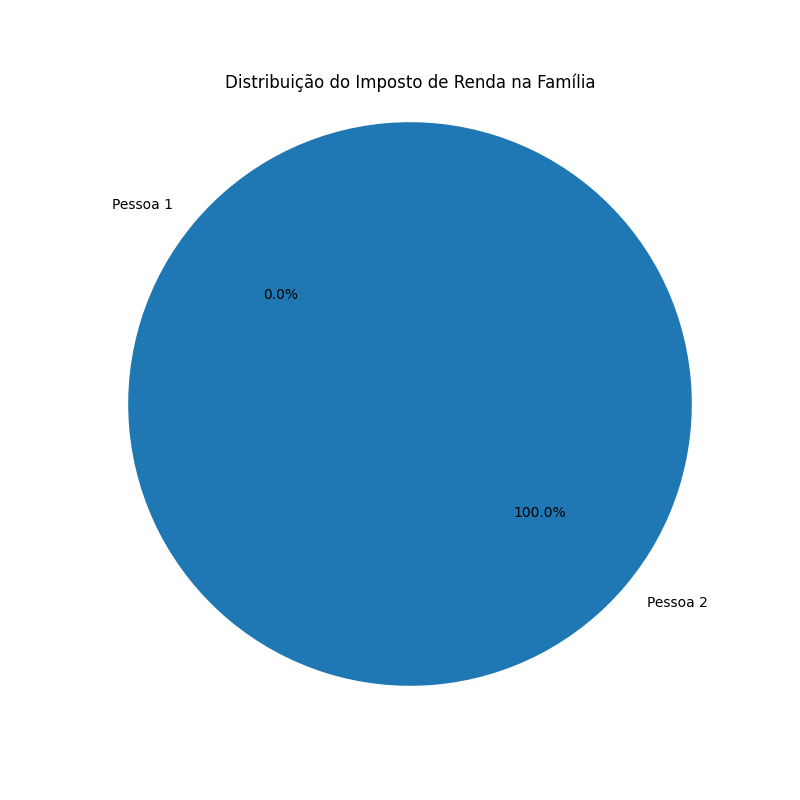
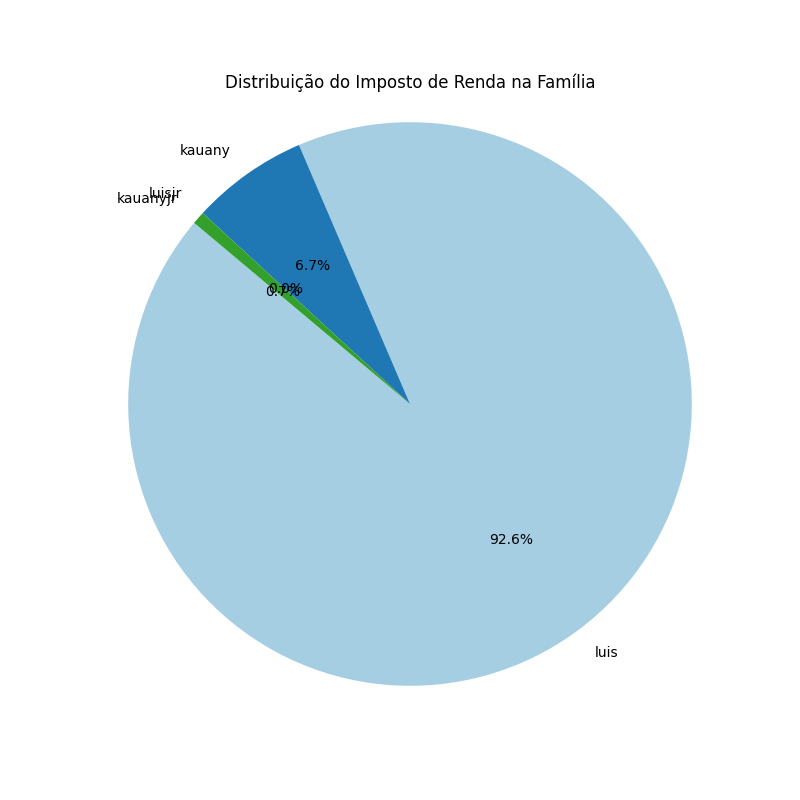
projeto atualizado e finalizado

diff --git a/calculadora_imposto_renda.py b/calculadora_imposto_renda.py
@@ -6,6 +6,7 @@ from email.mime.text import MIMEText
 from email.mime.base import MIMEBase
 from email import encoders
 import os
+import getpass  # Módulo para pedir senha de forma segura
 
 # Função para calcular o imposto de renda individual
 def calcular_imposto_renda(renda_anual):
@@ -21,10 +22,10 @@ def calcular_imposto_renda(renda_anual):
         return (renda_anual - 55976.16) * 0.275 + 4220.36
 
 # Função para gerar o gráfico de pizza usando pandas e matplotlib
-def gerar_grafico_pizza(rendas, impostos):
+def gerar_grafico_pizza(nomes, impostos):
     # Criando um DataFrame com pandas
     df = pd.DataFrame({
-        'Pessoas': [f'Pessoa {i+1}' for i in range(len(rendas))],
+        'Pessoas': nomes,
         'Imposto': impostos
     })
 
@@ -37,9 +38,7 @@ def gerar_grafico_pizza(rendas, impostos):
     plt.show()
 
 # Função para enviar o e-mail com o gráfico anexo
-def enviar_email(com_destinatario, arquivo_anexo):
-    from_email = 'sousaluishenrique20@gmail.com'
-    from_password = 'sua_senha'  # Substitua por sua senha ou senha de app
+def enviar_email(com_destinatario, arquivo_anexo, from_email, from_password):
     subject = 'Calculadora de Imposto de Renda da Família'
     
     # Configuração da mensagem
@@ -74,25 +73,30 @@ def main():
     num_pessoas = int(input("Digite o número de pessoas na família: "))
     rendas = []
     impostos = []
+    nomes = []
     
     for i in range(num_pessoas):
-        renda_anual = float(input(f"Digite a renda anual da pessoa {i+1}: R$ "))
+        nome = input(f"Digite o nome da pessoa {i+1}: ")
+        renda_anual = float(input(f"Digite a renda anual de {nome}: R$ "))
         imposto = calcular_imposto_renda(renda_anual)
         rendas.append(renda_anual)
         impostos.append(imposto)
-        print(f"O imposto de renda devido pela pessoa {i+1} é: R$ {imposto:.2f}")
+        nomes.append(nome)
+        print(f"O imposto de renda devido por {nome} é: R$ {imposto:.2f}")
     
     imposto_total = sum(impostos)
     print(f"O imposto total da família é: R$ {imposto_total:.2f}")
     
     # Gerar e mostrar o gráfico de pizza
-    gerar_grafico_pizza(rendas, impostos)
+    gerar_grafico_pizza(nomes, impostos)
     
     # Perguntar se o usuário deseja enviar o gráfico por e-mail
     enviar = input("Deseja enviar o gráfico por e-mail? (s/n): ").strip().lower()
     if enviar == 's':
         email = input("Digite seu e-mail para receber o gráfico: ")
-        enviar_email(email, 'grafico_imposto_renda_familia.png')
+        from_email = input("Digite o seu e-mail de envio: ")
+        from_password = getpass.getpass("Digite sua senha (não será exibida): ")
+        enviar_email(email, 'grafico_imposto_renda_familia.png', from_email, from_password)
         print(f"E-mail enviado para {email}")
     else:
         print("Gráfico não enviado.")
